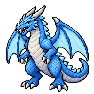
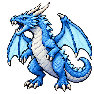
Regenerate coherent full-body dragon attack loop from original reference

diff --git a/design/enemies/dragon_frost/attack/PROMPT.md b/design/enemies/dragon_frost/attack/PROMPT.md
@@ -1,1 +1,1 @@
-Built-in image_gen edit. Character reference: exec-41891591-f63e-45af-9372-00fc3947cc04.png. Motion reference: codex-clipboard-4f36fea1-7517-4375-9369-c3258b24271c.png. Four-frame open-mouth loop. NO FIRE or particles. LEFT-facing head and neck extend sideways, closed mouth then open then wide then closing. Blue eyes, original angular face and two ivory fangs, no frontal pose, jaws open, ivory teeth visible. Frame1 medium gape, frame2 wider, frame3 maximum, frame4 return. Preserve blue pixel-art dragon, feet anchored, transparent background. Export: 94x94 PNG; 0.14s per frame.
+Built-in image_gen edit. Reference: ../move/dragon_frost_1.png. Four-frame open-mouth loop. NO FIRE or particles. Entire four frames regenerated together from original move dragon reference. No pasted face or local face replacement. Original narrow angular muzzle, small blue eyes, rough pixel-art scales and body proportions. Head and neck extend LEFT sideways, closed-open-wide-closed., jaws open, ivory teeth visible. Frame1 medium gape, frame2 wider, frame3 maximum, frame4 return. Preserve blue pixel-art dragon, feet anchored, transparent background. Export: 94x94 PNG; 0.14s per frame.
